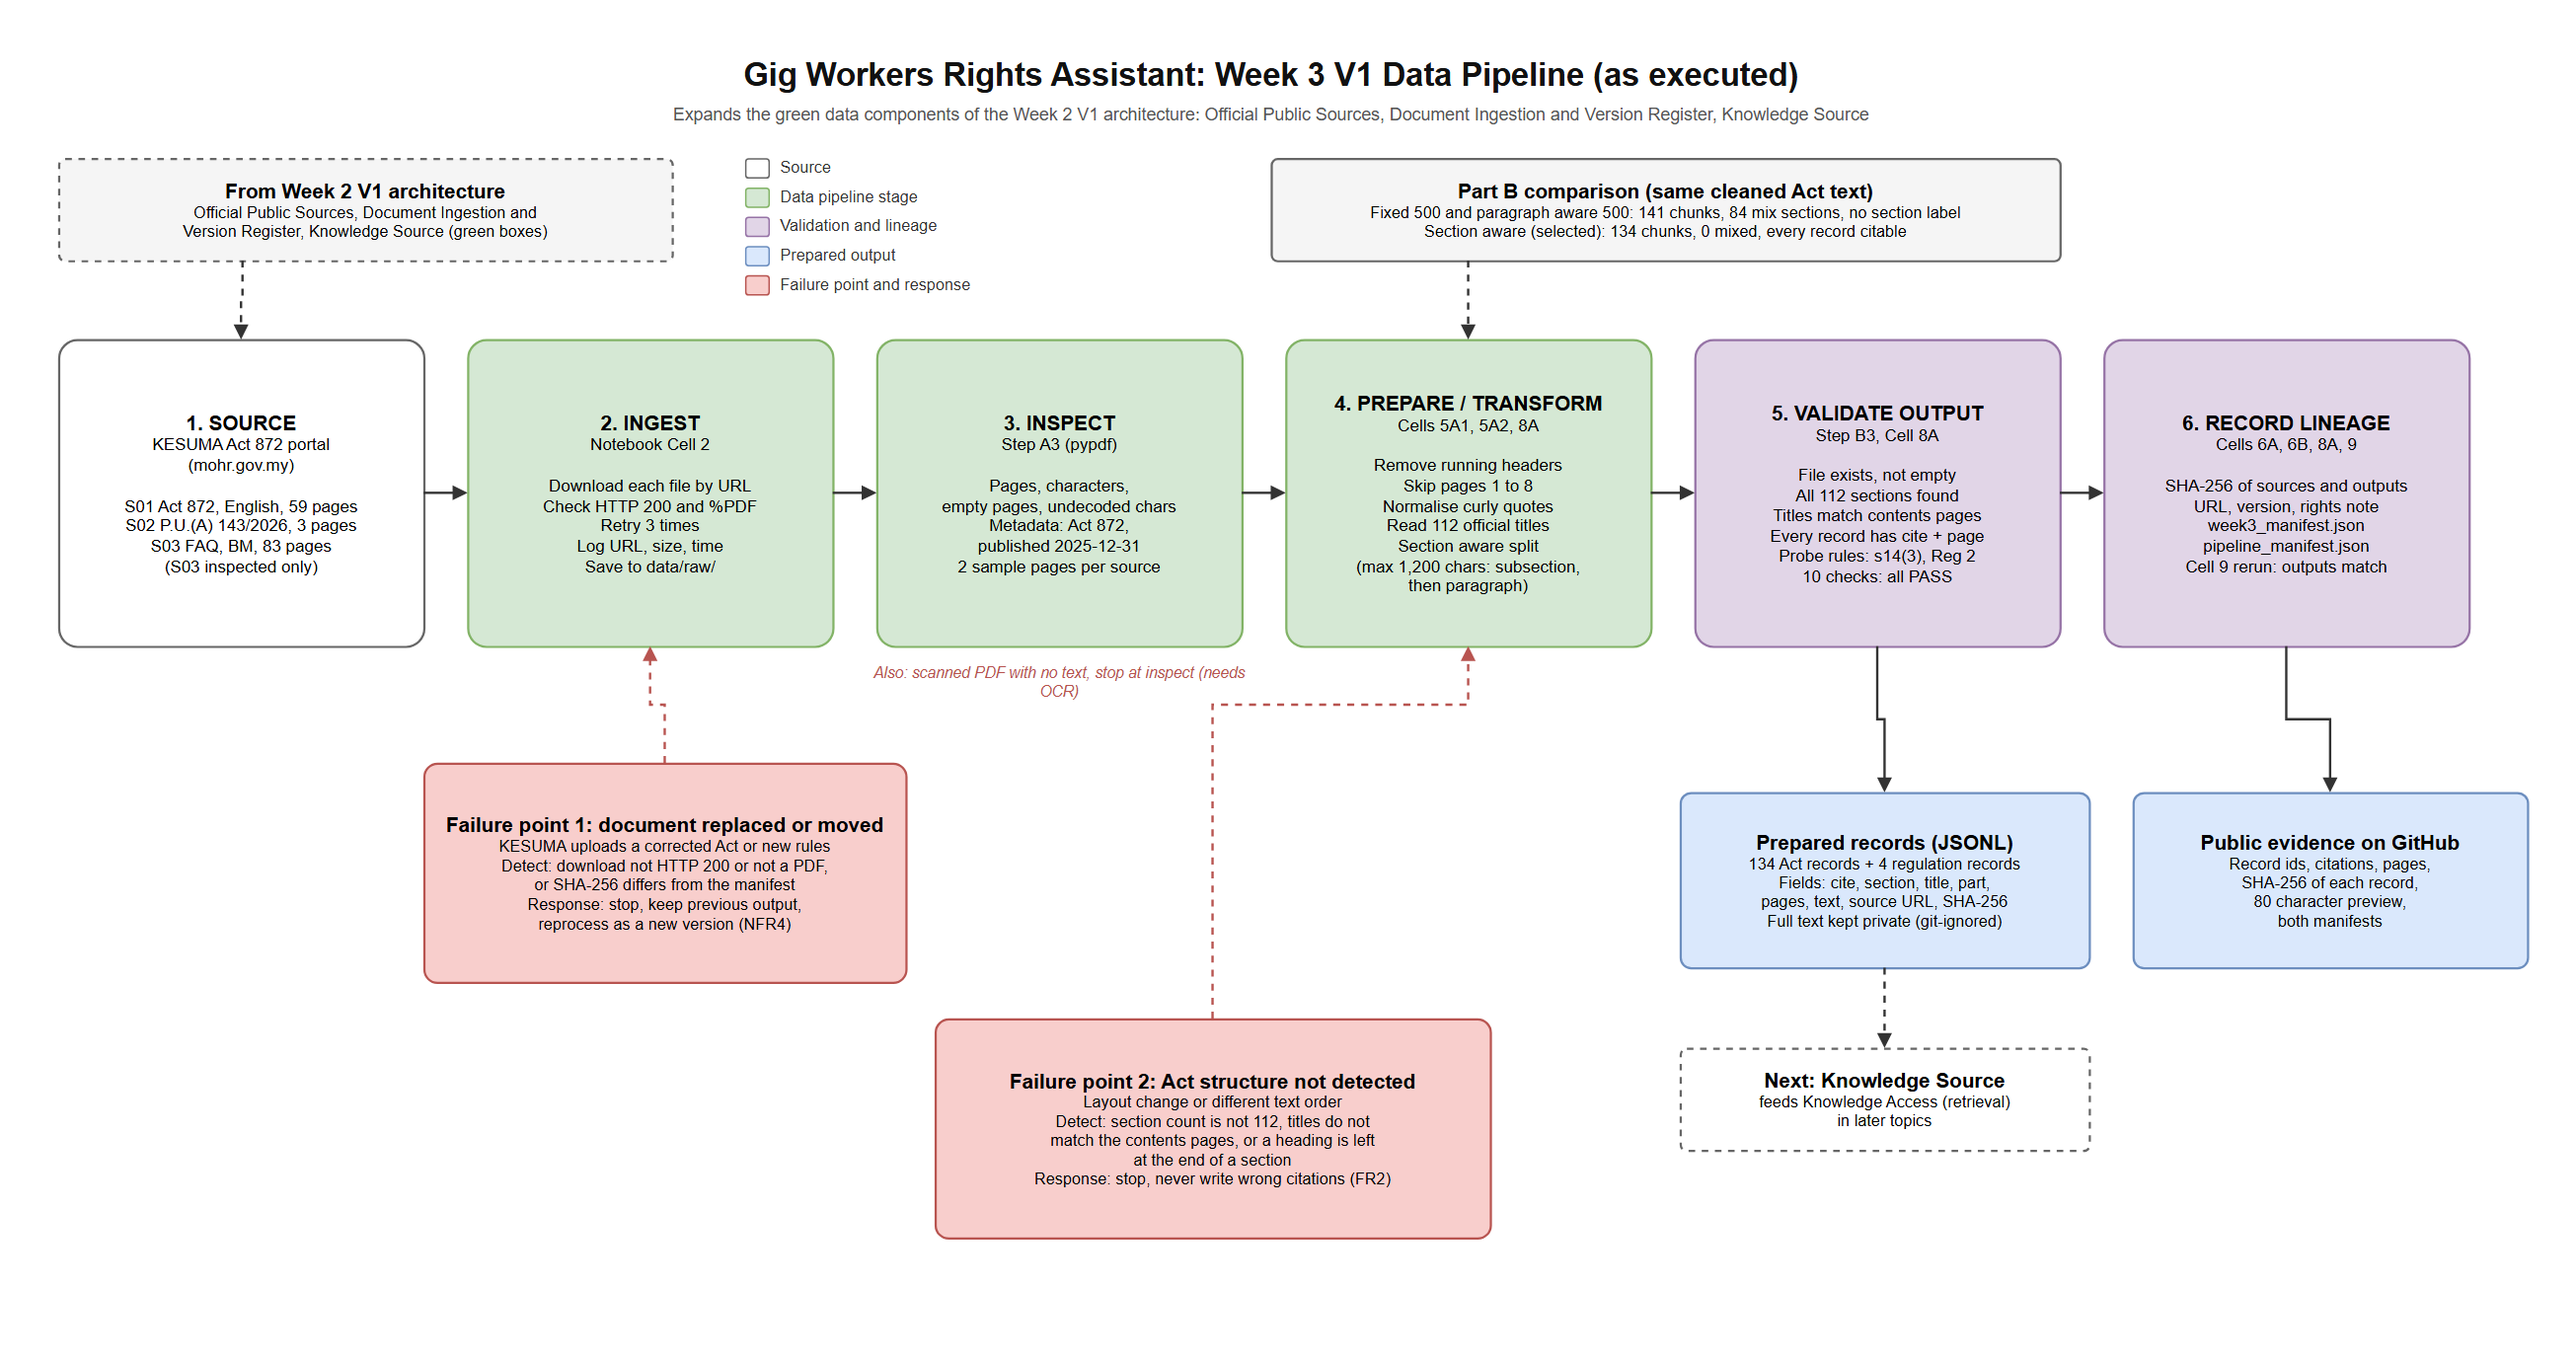
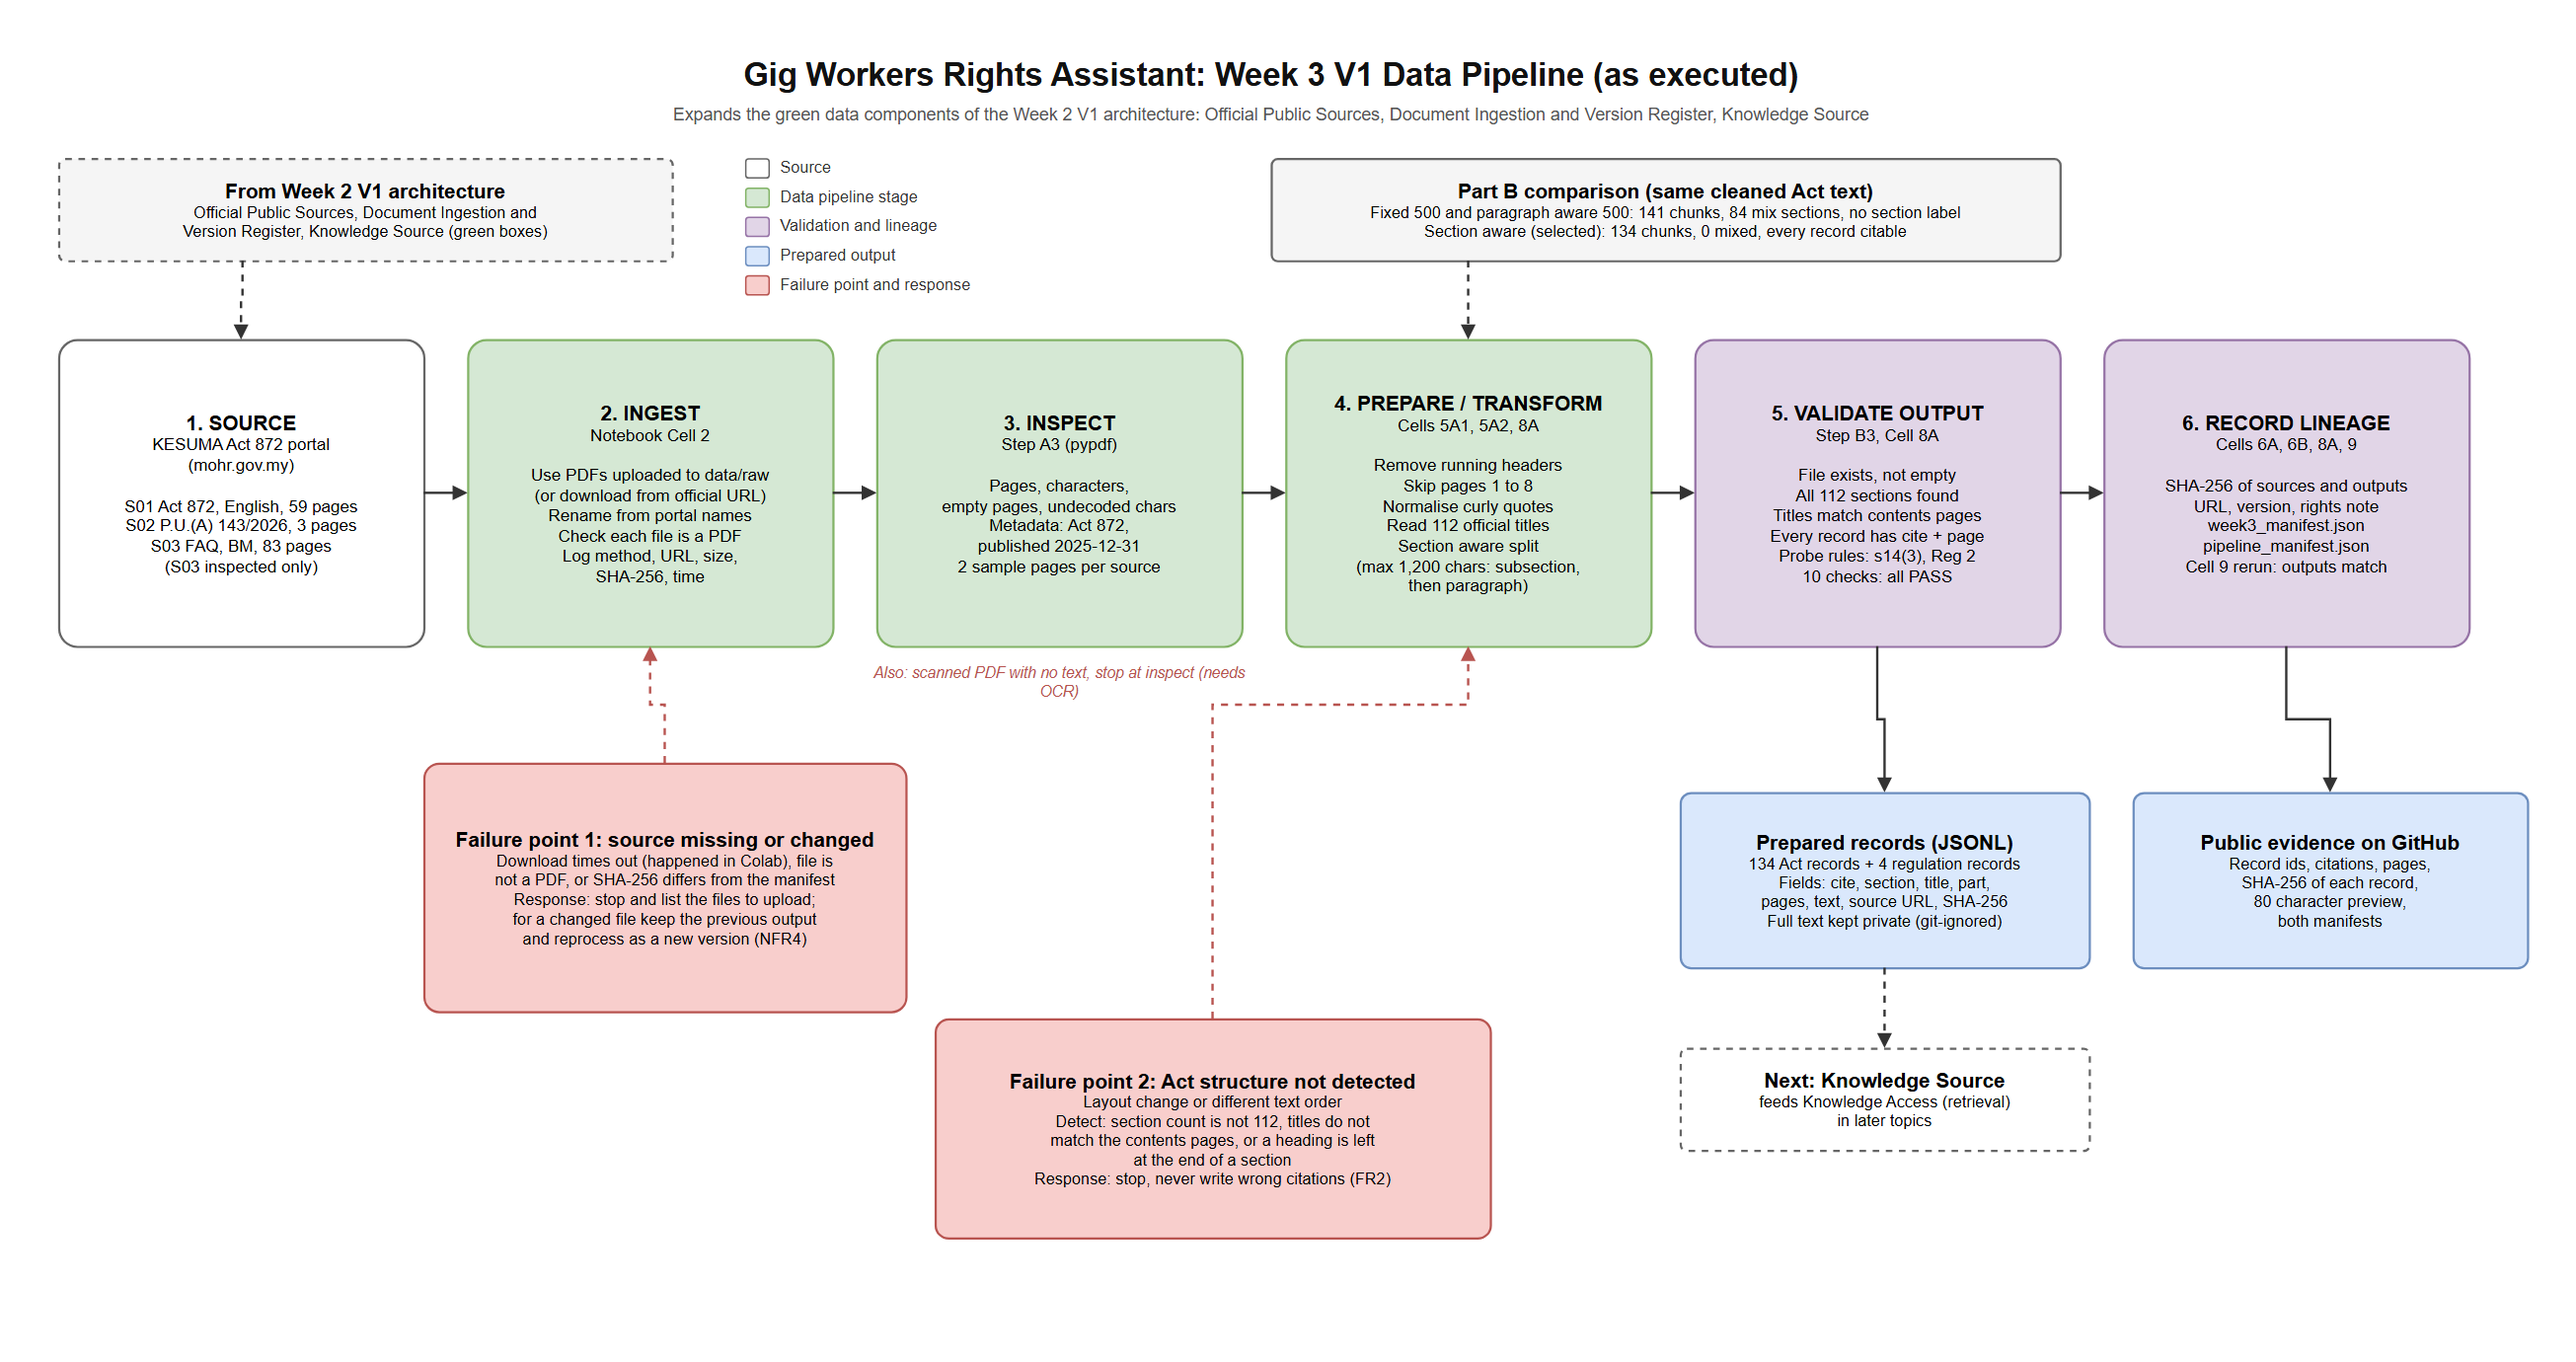
Week 3: load PDFs from data/raw for Colab, tidy notebook and docs

Changed region(s): [[0.1552, 0.592, 0.3724, 0.7478], [0.1862, 0.2804, 0.3103, 0.4362]]

diff --git a/docs/week3_pipeline_decisions.md b/docs/week3_pipeline_decisions.md
@@ -76,7 +76,7 @@ All three approaches were run on the **same cleaned text of Act 872** (70,116 ch
 
 | Stage | Contract / evidence | Failure response |
 |---|---|---|
-| Ingest | Each chosen source downloads from the official KESUMA URL with HTTP 200 and starts with `%PDF`. URL, size and time are logged. | Retry 3 times, then **stop** with a clear error. Never continue with a partial or HTML error page. |
+| Ingest | Each chosen source is in `data/raw` (uploaded) or downloads from the official KESUMA URL, and starts with `%PDF`. Method, URL, size, SHA-256 and time are logged. | If a file is missing and the download fails, **stop** and list exactly which files to upload. Never continue with a partial file or an HTML error page. |
 | Inspect | Every page has extractable text (0 empty pages expected). Page count, characters and undecoded characters are recorded. | **Stop** if no text is found (scanned PDF would need OCR). Flag if undecoded characters appear. |
 | Prepare | Act yields exactly 112 sections and 112 official titles. Regulations yield exactly 3. Chunks are at most 1,200 characters. | **Stop and report** if the count is different (for example a layout change or an amended Act). Do not write a partly wrong knowledge source. |
 | Validate | Output files exist, are non empty, SHA-256 recorded, plus the 10 project content checks. | **Stop** for missing or empty output or any failed content check. |
@@ -86,6 +86,8 @@ All three approaches were run on the **same cleaned text of Act 872** (70,116 ch
 
 **Failure point 1: KESUMA replaces or moves a document.**
 The law is new, so KESUMA may upload a corrected Act or new regulations under the same or a different URL. *Detection:* the download fails (non 200 or not a PDF), or the SHA-256 of the new file is different from the one in the manifest. *Response:* stop, keep the previous prepared output, and reprocess the new version as a new batch with its new publication date. This links to NFR4 (update in under 15 minutes) and the freshness risk in the Week 2 requirements.
+
+*This ingest failure actually happened during the lab.* When I first ran the notebook in Google Colab, the download from the KESUMA website timed out on every attempt (`URLError: <urlopen error timed out>`), most likely because Colab's servers are outside Malaysia. The pipeline stopped at Cell 2 as designed instead of continuing with missing files. My response was to download the PDFs in a browser from the same official URLs and upload them into `data/raw`, which is the standard upload method in the lab. Cell 2 now uses uploaded files first, renames them from their portal names, checks that each one is a real PDF, and logs the method and SHA-256, so the lineage is the same either way.
 
 **Failure point 2: the Act's structure is not detected correctly.**
 If the layout changes (for example a new PDF printer) or pypdf extracts text in a different order, section numbers or headings might be missed, which would attach text to the wrong section and break citations. *Detection:* the section count is not 112, the titles do not match the Arrangement of Sections, or a section ends with the next section's heading. *Response:* stop the pipeline instead of writing records with wrong citations. This protects FR2, NFR2 and RAI4.
@@ -112,7 +114,7 @@ Act 872 page 2 says: "All rights reserved. No part of this publication may be re
 
 * the raw PDFs and the full prepared text are **not committed** (they are listed in `.gitignore`);
 * the repository holds **public evidence** instead: record ids, citations, pages, sizes, SHA-256 fingerprints and an 80 character preview per record;
-* anyone can rebuild the full files by running the notebook, which downloads the documents from the official URLs, and check them against the fingerprints.
+* anyone can rebuild the full files by getting the documents from the official URLs and running the notebook, then check them against the fingerprints.
 
 This follows the lab instruction to commit only non-sensitive evidence when data should not be redistributed.
 

diff --git a/docs/week3_data_inventory.md b/docs/week3_data_inventory.md
@@ -29,7 +29,7 @@ This project uses **real, official data**, not the dummy dataset. All sources ar
 | S02 | `pua143_2026.pdf` from https://www.mohr.gov.my/aktapekerjagig2025/assets/documents/PUA143_2026%20-%20PERATURAN%20PEKERJA%20GIG%20(KESELAMATAN%20SOSIAL).pdf | Unstructured text (digital PDF, 3 pages, 269,365 bytes). Detail for pilot area 4. | P.U.(A) 143/2026, Gig Workers (Social Security) Regulations 2026. Published 30 Mar 2026, in force 31 Mar 2026. Owner: Attorney General's Chambers (publisher), made by the Minister of Human Resources. SHA-256 `5109d086...4dae9`. | Publicly downloadable official gazette. Treated the same as S01: prepared text is not republished in full. | 3 pages, 2,372 characters. Page 2 is BM, page 3 is English. Regulation 2 (page 3) states "one point two five percent". Some words have broken spacing in the PDF ("t he", "purpose s"). |
 | S03 | `kesuma_faq.pdf` from https://www.mohr.gov.my/aktapekerjagig2025/assets/documents/faq.pdf | Unstructured text (digital PDF, 83 pages, 686,646 bytes). Supporting guidance and test question ideas. | Soalan Lazim Akta Pekerja Gig 2025, prepared by KESUMA. File created 30 Mar 2026 (PDF metadata, no version number printed). SHA-256 `dff1b30b...339f8`. | Publicly downloadable. Marked "Untuk kegunaan umum" (for general use) on page 2. Inspected only this week; no prepared output yet. | 83 pages, 79,563 characters, BM only. Page 2 is a contents page with topics A to P. Page 42 shows questions 53 and 54 on internal grievance and conciliation. About 127 numbered questions. |
 
-The ingestion log with download time and HTTP status for each file is in [`data/ingestion_log.json`](../data/ingestion_log.json).
+Because the KESUMA website does not respond to Google Colab's servers, the PDFs were downloaded in a browser from the official URLs above and uploaded to `data/raw` in Colab. The ingestion log with the method, size, SHA-256 and time for each file is in [`data/ingestion_log.json`](../data/ingestion_log.json).
 
 ---
 
@@ -60,7 +60,7 @@ The ingestion log with download time and HTTP status for each file is in [`data/
 
 | Item | Location | In GitHub? |
 |---|---|---|
-| Raw PDFs (S01 to S03) | `data/raw/` inside the notebook workspace (Colab `/content/week3_project` or local `week3_project/`) | No. Re-downloaded from the official URLs each run. |
+| Raw PDFs (S01 to S03) | `data/raw/` inside the notebook workspace (Colab `/content/week3_project` or local `week3_project/`) | No. Uploaded to the workspace for each run (or downloaded directly when run in Malaysia). |
 | Full prepared text (Part B) | `data/processed/prepared_act872_sections.jsonl`, `data/processed/prepared_pua143_regulations.jsonl` | No (git-ignored). Rebuilt by running the notebook. |
 | Full prepared text (Part C) | `data/pipeline_v1/documents/prepared_text.jsonl` | No (git-ignored). Rebuilt by running the notebook. |
 | Public evidence of prepared outputs | `data/processed/evidence/*.evidence.jsonl`, `data/pipeline_v1/documents/prepared_text.evidence.jsonl` | Yes. Record ids, citations, pages, sizes, SHA-256 of each record's text and an 80 character preview. |

diff --git a/data/processed/README.md b/data/processed/README.md
@@ -13,7 +13,7 @@ The prepared outputs are built by [`notebooks/week3_pipeline.ipynb`](../../noteb
 
 **What the evidence files contain:** for every record, the record id, citation (for example "Act 872, Section 14"), section title, Part, pages, character count, source URL, source SHA-256, version, processing method, the SHA-256 of the record's full text and an 80 character preview.
 
-**How to rebuild and verify:** run the notebook from top to bottom (Colab or local). It downloads the official PDFs, rebuilds the full files and writes new evidence files. The `text_sha256` values and the `prepared_sha256` values in [`data/week3_manifest.json`](../week3_manifest.json) should match.
+**How to rebuild and verify:** run the notebook from top to bottom (Colab or local). It uses the official PDFs (uploaded to `data/raw`, or downloaded directly when run in Malaysia), rebuilds the full files and writes new evidence files. The `text_sha256` values and the `prepared_sha256` values in [`data/week3_manifest.json`](../week3_manifest.json) should match.
 
 **Record format (full files):**
 

diff --git a/data/sources.md b/data/sources.md
@@ -23,11 +23,3 @@ All documents are official, publicly available files from the Ministry of Human 
 | Social security | Act 872, Part VIII | D2 (1.25% deduction), FAQ section O |
 
 The Act is always the main source. The regulations and Director General determinations fill in details the Act leaves open, and the FAQ is supporting guidance only.
-
-## Notes for parsing (Week 3 preparation)
-
-1. The Act uses numbered sections, subsections like (1) and (2), and paragraphs like (a) and (b). Splitting by section number should keep each rule together.
-2. Page headers repeat on every page ("Laws of Malaysia", "Act 872" and the page number), so they need to be removed before splitting.
-3. Cross references are common, for example Section 18(3)(b) refers back to Section 14(9). The section number should be kept with each chunk so these can be followed.
-4. The regulations PDF has BM and English text in the same document.
-5. The FAQ is a question and answer list grouped by topic (sections A to P), which is also useful for building test questions.

diff --git a/docs/week1_project_scope.md b/docs/week1_project_scope.md
@@ -58,7 +58,7 @@ A good example is account suspension. Under Section 14, a platform can suspend a
 
 Put together, this shows a large group of workers (E1) who just gained new legal rights (E2), but the information is hard to get through (E3), many have not taken up the protections that already exist (E4), many cannot afford to lose income (E5), and real disputes are already happening (E6).
 
-**Note to myself:** I could not find a survey that directly measures how many gig workers understand Act 872. For Week 2 I want to look for one (KESUMA, PERKESO, DOSM or rider associations). If none exists, I could run a small survey of riders myself as part of the requirements stage.
+**Evidence gap:** I could not find a published survey that directly measures how well gig workers understand Act 872. This will be looked at again in later stages, for example through KESUMA, PERKESO, DOSM or rider association data.
 
 ---
 
